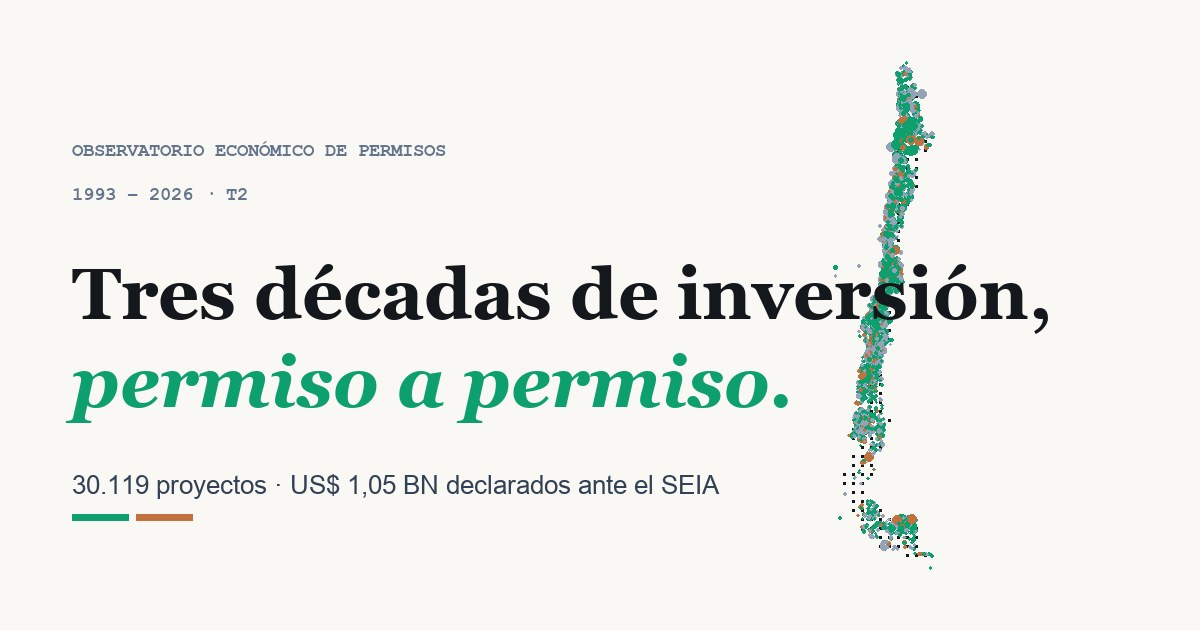
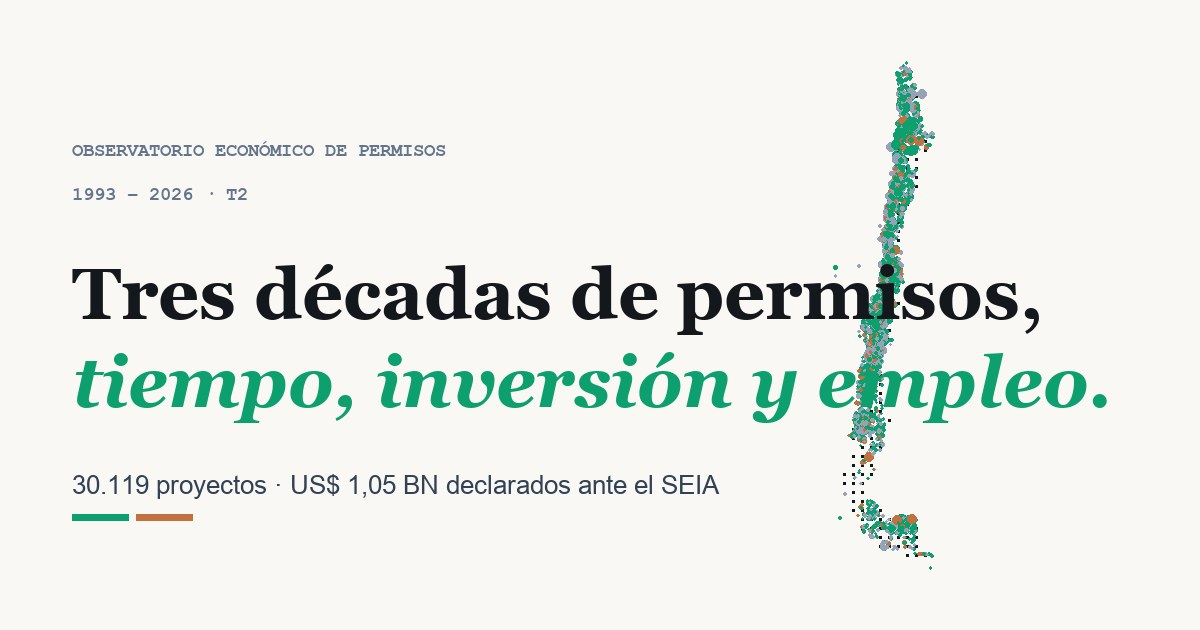
Hero: nuevo titular «Tres décadas de permisos, tiempo, inversión y empleo»

Changed region(s): [[0.0617, 0.4222, 0.925, 0.6937]]

diff --git a/components/Hero.tsx b/components/Hero.tsx
@@ -51,8 +51,8 @@ export default function Hero({ k }: { k: Kpis | null }) {
           className={`oep-headline mt-8 max-w-4xl text-[clamp(44px,7vw,100px)] leading-[1.02] tracking-tight ${RISE}`}
           style={{ animationDelay: '180ms' }}
         >
-          Tres décadas de inversión,{' '}
-          <em className="font-medium italic text-oep-emerald">permiso a permiso.</em>
+          Tres décadas de permisos,{' '}
+          <em className="font-medium italic text-oep-emerald">tiempo, inversión y empleo.</em>
         </h1>
         <p
           className={`mt-7 max-w-xl text-[17px] leading-7 text-oep-ink/70 lg:text-[19px] lg:leading-8 ${RISE}`}

diff --git a/app/layout.tsx b/app/layout.tsx
@@ -36,7 +36,7 @@ export const metadata: Metadata = {
     type: 'website',
     locale: 'es_CL',
     siteName: 'OEP · Observatorio Económico de Permisos',
-    title: 'OEP · Tres décadas de inversión, permiso a permiso',
+    title: 'OEP · Tres décadas de permisos, tiempo, inversión y empleo',
     description:
       'Mapa vivo, rankings y perfiles de los 30.119 expedientes del SEIA (1993–2026-T2): regiones, sectores, titulares y tiempos de aprobación.',
     images: [{ url: '/og.jpg', width: 1200, height: 630, alt: 'Mapa de partículas: proyectos del SEIA en Chile' }],

diff --git a/scripts/build-og-image.py b/scripts/build-og-image.py
@@ -97,9 +97,9 @@ def main():
     y += 44
     draw.text((margin, y), '1993 – 2026 · T2', font=f_eyebrow, fill=SLATE)
     y += 68
-    draw.text((margin, y), 'Tres décadas de inversión,', font=f_title, fill=INK)
+    draw.text((margin, y), 'Tres décadas de permisos,', font=f_title, fill=INK)
     y += 88
-    draw.text((margin, y), 'permiso a permiso.', font=f_title_it, fill=EMERALD)
+    draw.text((margin, y), 'tiempo, inversión y empleo.', font=f_title_it, fill=EMERALD)
     y += 130
     draw.text((margin, y), '30.119 proyectos · US$ 1,05 BN declarados ante el SEIA',
               font=f_sub, fill=(51, 65, 85))
